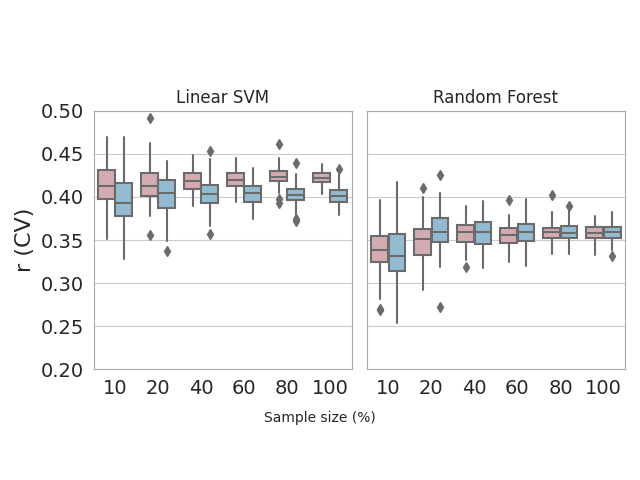
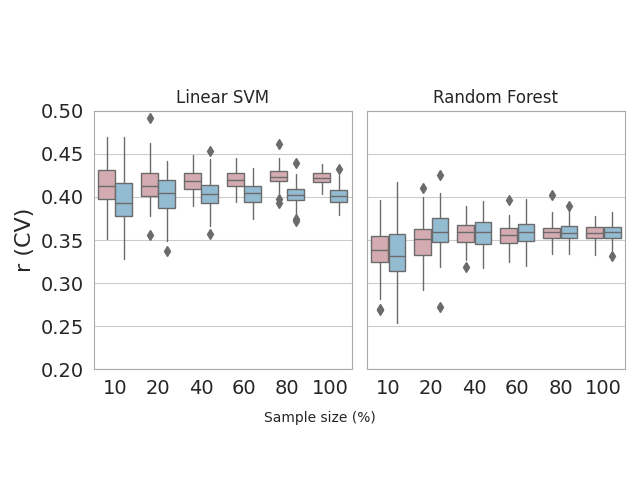
Comparing linear SVM and Random Forest with different sample size in non-MRI data

diff --git a/exec/4_samplesize_increasing_on_data/plot_boxplot_comparing_svm_rf_models_multi_samplesize_by_gender.py b/exec/4_samplesize_increasing_on_data/plot_boxplot_comparing_svm_rf_models_multi_samplesize_by_gender.py
@@ -103,7 +103,7 @@ sns.boxplot(data=df_linear_svm,
             y=test_score,  # Ensure y is passed as a string if it is a column name
             hue="gender",
             palette=custom_palette,
-            # linewidth=1,
+            linewidth=1,
             showcaps=False,
             ax=ax[0],
            )
@@ -114,7 +114,7 @@ sns.boxplot(data=df_random_forest,
             y=test_score,  # Ensure y is passed as a string if it is a column name
             hue="gender",
             palette=custom_palette,
-            # linewidth=1,
+            linewidth=1,
             showcaps=False,
             ax=ax[1],
            )
